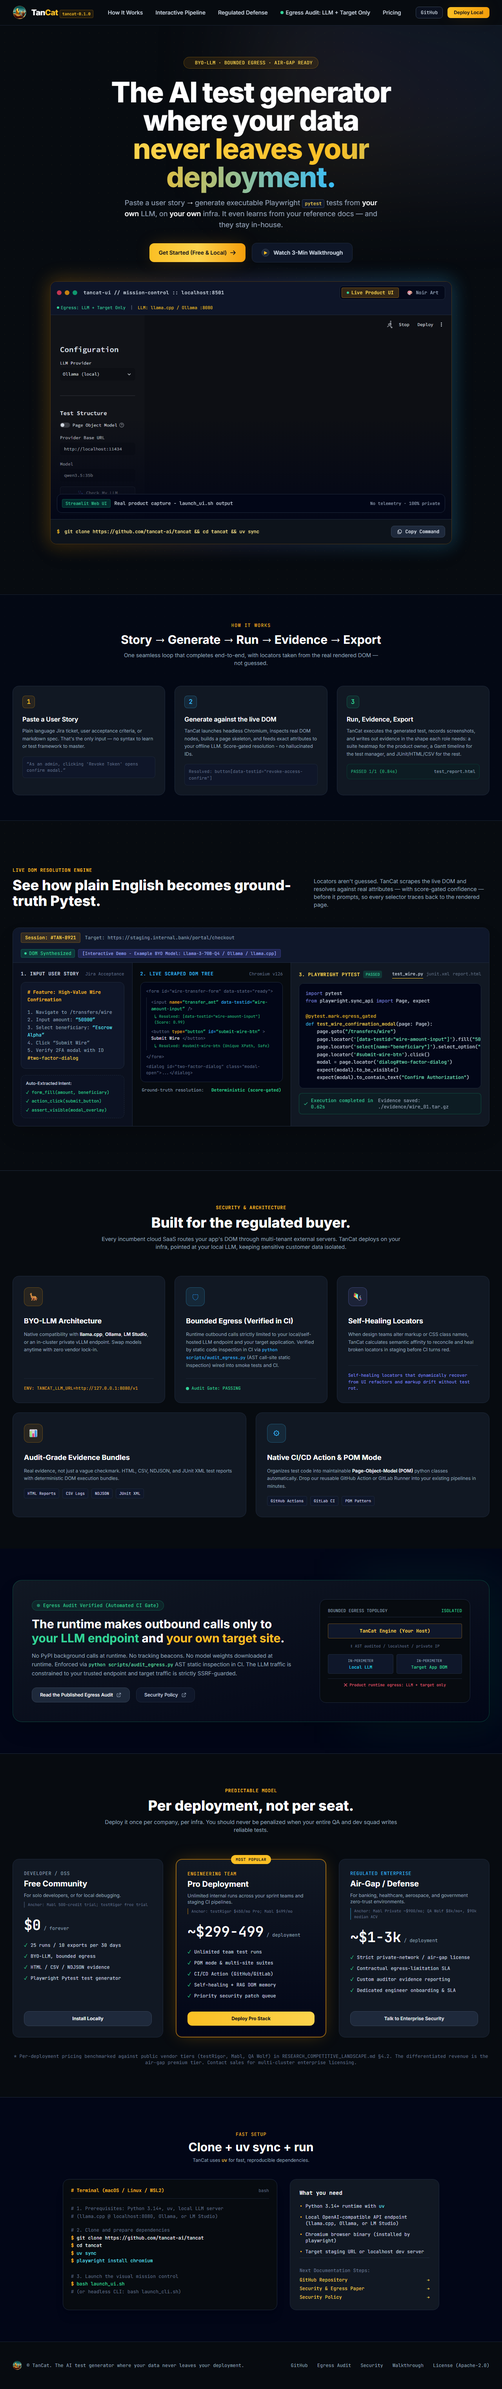
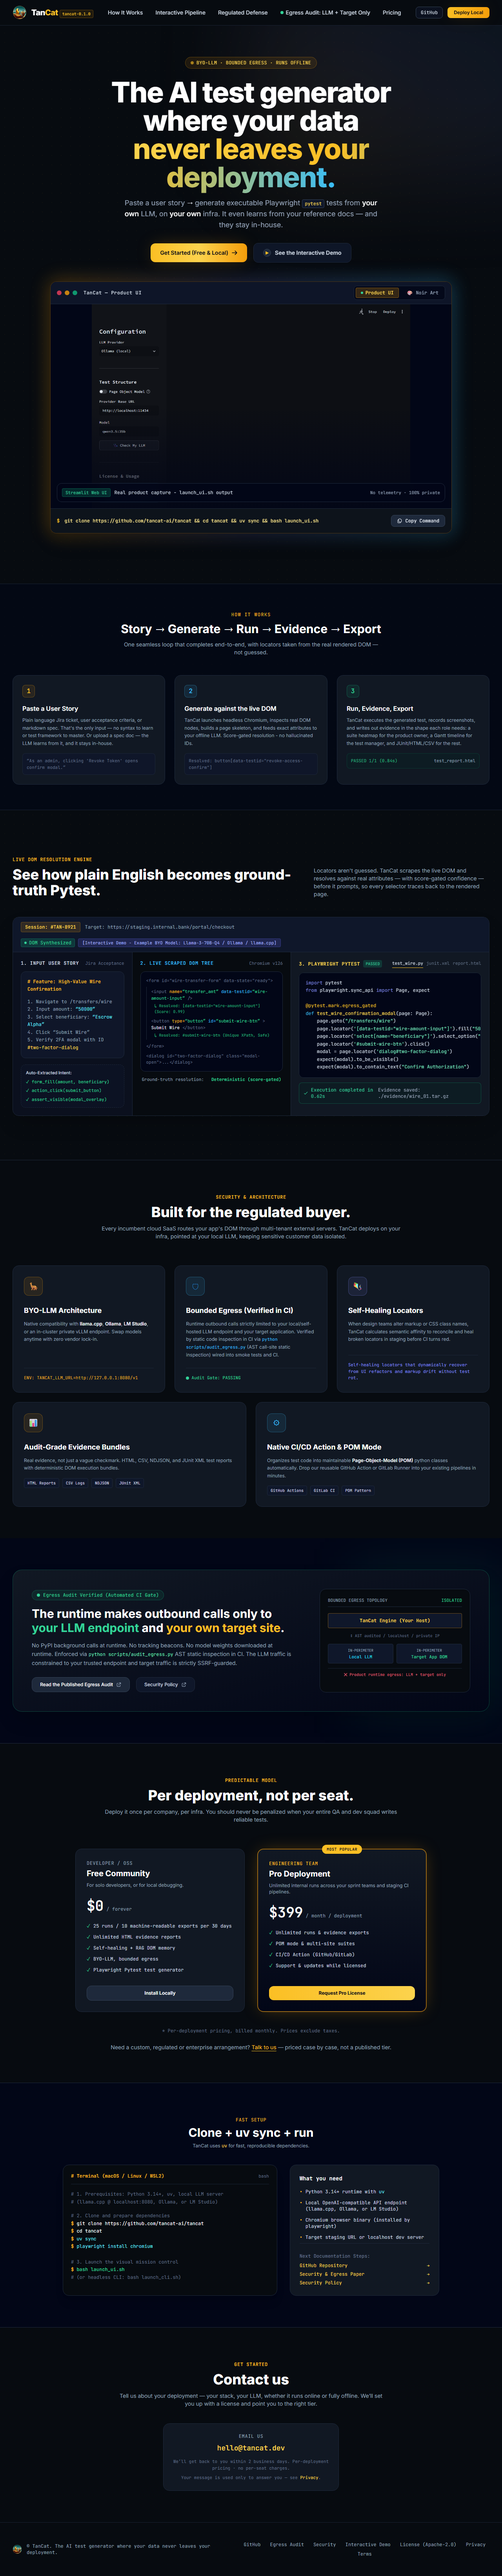
fix(landing): rebuild the share card and previews after the copy change
The og:image / twitter:image (landing/og-card.png) still showed "AIR-GAP
READY", so every shared link kept advertising the retired wording even though
the page no longer shows it. The two preview screenshots were stale in the same
way (old badge and the old three-tier pricing).

Rebuilt with the manual generator (not run by CI):
  landing/og-card.png
  landing/preview_desktop_1280.png
  landing/preview_mobile_390.png
The favicon and PNG icons were rewritten too and came out byte-identical.

The generator did NOT hard-code the old wording - the OG card is a real
headless capture of landing/index.html - so the rebuild picked the fix up on its
own and no generator text needed changing. What the generator WAS missing: the
two preview screenshots. They were full-page captures with no generator at all
(added by hand in the original landing commit), which is exactly why they went
stale. scripts/maintenance/make_landing_assets.py now builds them from the same
live page (build_previews), so they cannot drift from the copy again.

Verified after the rebuild:
- read landing/og-card.png: the badge now reads "BYO-LLM - BOUNDED EGRESS -
  RUNS OFFLINE";
- read the rendered page (what the captures draw): "air-gap"/"airgap" appears
  nowhere in its text, and the pricing section has exactly Free Community and
  Pro Deployment with no "$1,500";
- cropped the rebuilt desktop preview's badge and pricing regions and read them:
  new badge, two pricing cards, plain contact line.
[…]

diff --git a/scripts/maintenance/make_landing_assets.py b/scripts/maintenance/make_landing_assets.py
@@ -13,14 +13,20 @@ Writes into ``landing/``:
 | ``icon-512.png``       | 512 px          | Android splash / PWA store           |
 | ``apple-touch-icon.png``| 180 px         | iOS home screen (opaque, no alpha)   |
 | ``og-card.png``        | 1200x630        | Open Graph / Twitter link preview    |
+| ``preview_desktop_1280.png`` | 1280 wide, full page | README / release preview        |
+| ``preview_mobile_390.png``   | 390 wide, full page  | README / release preview            |
 
 The icons come from ``landing/logo_transparent.png``, flattened onto the page's
 ``--midnight`` background (#070b10) so they look identical on light and dark
 browser chrome.
 
-The OG card is a **real capture of the page** rendered headless at 1200x630,
-not a hand-made graphic -- so the preview can never advertise a headline the
-page no longer shows. It needs the Tailwind CDN, so this step needs network.
+The OG card and both preview screenshots are **real captures of the page**
+rendered headless, not hand-made graphics -- so they can never advertise wording
+or pricing the page no longer shows. They need the Tailwind CDN, so this step
+needs network.
+
+Run this after ANY landing copy change: a stale share image or preview is the
+difference between a page that is fixed and a page that still looks retired.
 
 Idempotent: same inputs + same Pillow/Chromium versions produce byte-similar
 output. Nothing here ships to the product runtime.
@@ -29,10 +35,15 @@ output. Nothing here ships to the product runtime.
 from __future__ import annotations
 
 from pathlib import Path
+from typing import TYPE_CHECKING
 
 from PIL import Image
+from playwright.sync_api import sync_playwright
 
-__all__ = ["main", "build_icons", "build_og_card"]
+if TYPE_CHECKING:
+    from playwright.sync_api import Browser, Page, Playwright
+
+__all__ = ["main", "build_icons", "build_og_card", "build_previews"]
 
 REPO_ROOT = Path(__file__).resolve().parents[2]
 LANDING = REPO_ROOT / "landing"
@@ -49,6 +60,14 @@ PNG_ICONS: dict[str, int] = {
     "apple-touch-icon.png": 180,
 }
 OG_SIZE: tuple[int, int] = (1200, 630)
+
+#: Full-page preview screenshots: file name -> (viewport width, viewport height).
+#: ``full_page`` makes the written image as tall as the rendered page, so the
+#: height here only sets the layout width used while rendering.
+PREVIEW_VIEWPORTS: dict[str, tuple[int, int]] = {
+    "preview_desktop_1280.png": (1280, 900),
+    "preview_mobile_390.png": (390, 844),
+}
 
 
 def _flattened_logo(size: int, logo: Image.Image) -> Image.Image:
@@ -78,20 +97,44 @@ def build_icons(logo_path: Path = LOGO, out_dir: Path = LANDING) -> list[Path]:
     return written
 
 
+def _open_page(index_path: Path, width: int, height: int) -> tuple[Playwright, tuple[Browser, Page]]:
+    """Return (playwright, (browser, page)) with the landing page loaded."""
+    playwright = sync_playwright().start()
+    browser = playwright.chromium.launch()
+    page = browser.new_page(viewport={"width": width, "height": height}, device_scale_factor=1)
+    page.goto(index_path.as_uri(), wait_until="networkidle")
+    page.wait_for_timeout(1200)  # webfonts settle after networkidle
+    return playwright, (browser, page)
+
+
 def build_og_card(index_path: Path = INDEX, out_path: Path = LANDING / "og-card.png") -> Path:
     """Screenshot the page headless at 1200x630 into *out_path*."""
-    from playwright.sync_api import sync_playwright
+    playwright, (browser, page) = _open_page(index_path, OG_SIZE[0], OG_SIZE[1])
+    try:
+        page.screenshot(path=str(out_path))
+    finally:
+        browser.close()
+        playwright.stop()
+    return out_path
 
-    with sync_playwright() as pw:
-        browser = pw.chromium.launch()
+
+def build_previews(index_path: Path = INDEX, out_dir: Path = LANDING) -> list[Path]:
+    """Write the full-page desktop and mobile preview screenshots.
+
+    Captures of the same page, so they cannot drift from the live copy the way a
+    hand-made graphic does.
+    """
+    written: list[Path] = []
+    for name, (width, height) in PREVIEW_VIEWPORTS.items():
+        playwright, (browser, page) = _open_page(index_path, width, height)
         try:
-            page = browser.new_page(viewport={"width": OG_SIZE[0], "height": OG_SIZE[1]}, device_scale_factor=1)
-            page.goto(index_path.as_uri(), wait_until="networkidle")
-            page.wait_for_timeout(1200)  # webfonts settle after networkidle
-            page.screenshot(path=str(out_path))
+            path = out_dir / name
+            page.screenshot(path=str(path), full_page=True)
+            written.append(path)
         finally:
             browser.close()
-    return out_path
+            playwright.stop()
+    return written
 
 
 def main() -> int:
@@ -99,6 +142,8 @@ def main() -> int:
     for path in build_icons():
         print(f"wrote {path.relative_to(REPO_ROOT)}")
     print(f"wrote {build_og_card().relative_to(REPO_ROOT)}")
+    for path in build_previews():
+        print(f"wrote {path.relative_to(REPO_ROOT)}")
     return 0
 
 
